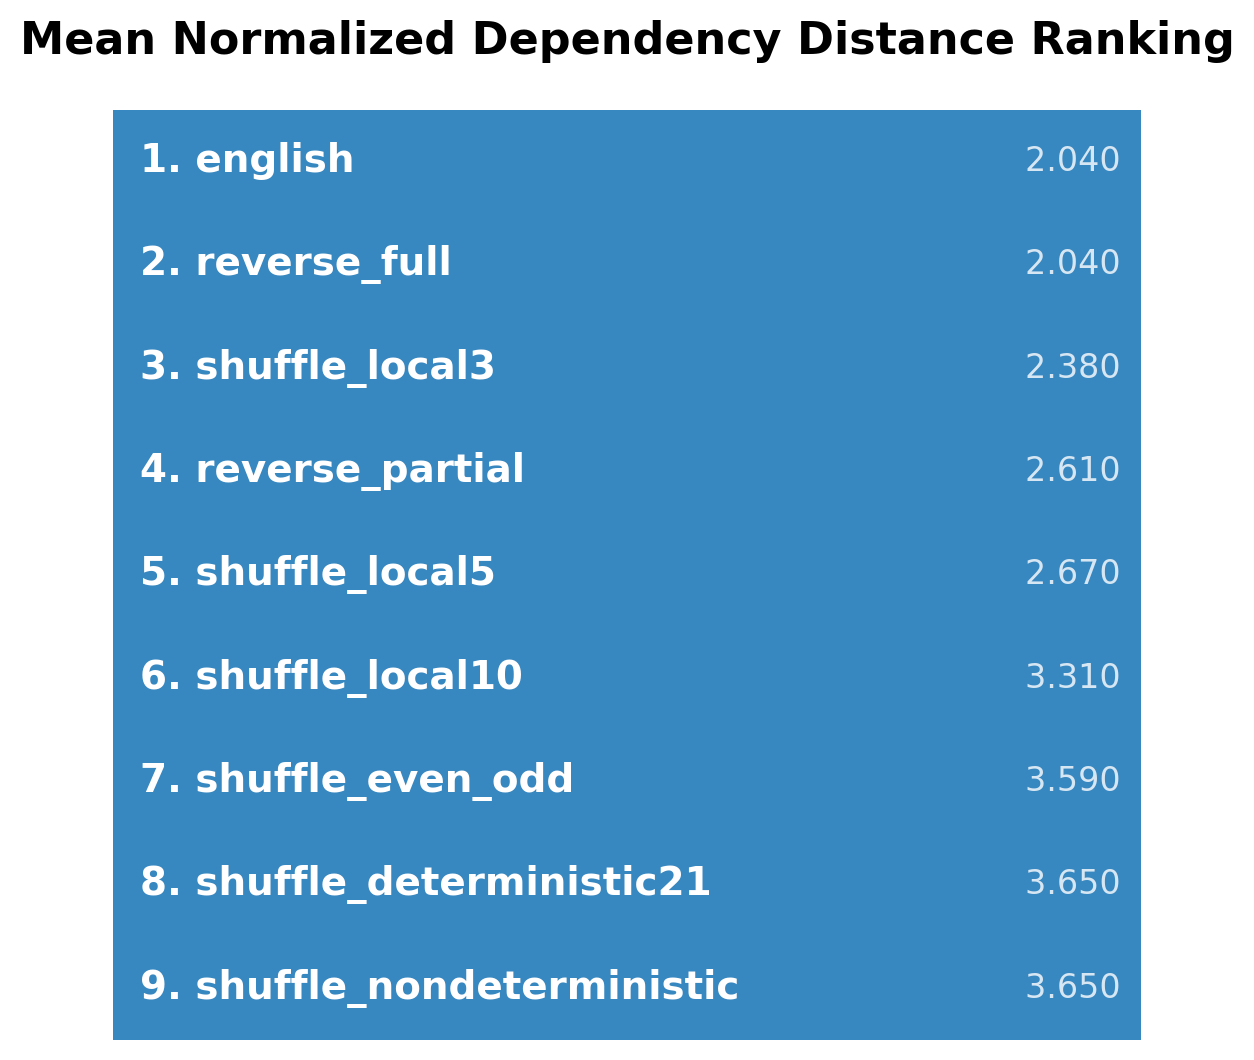
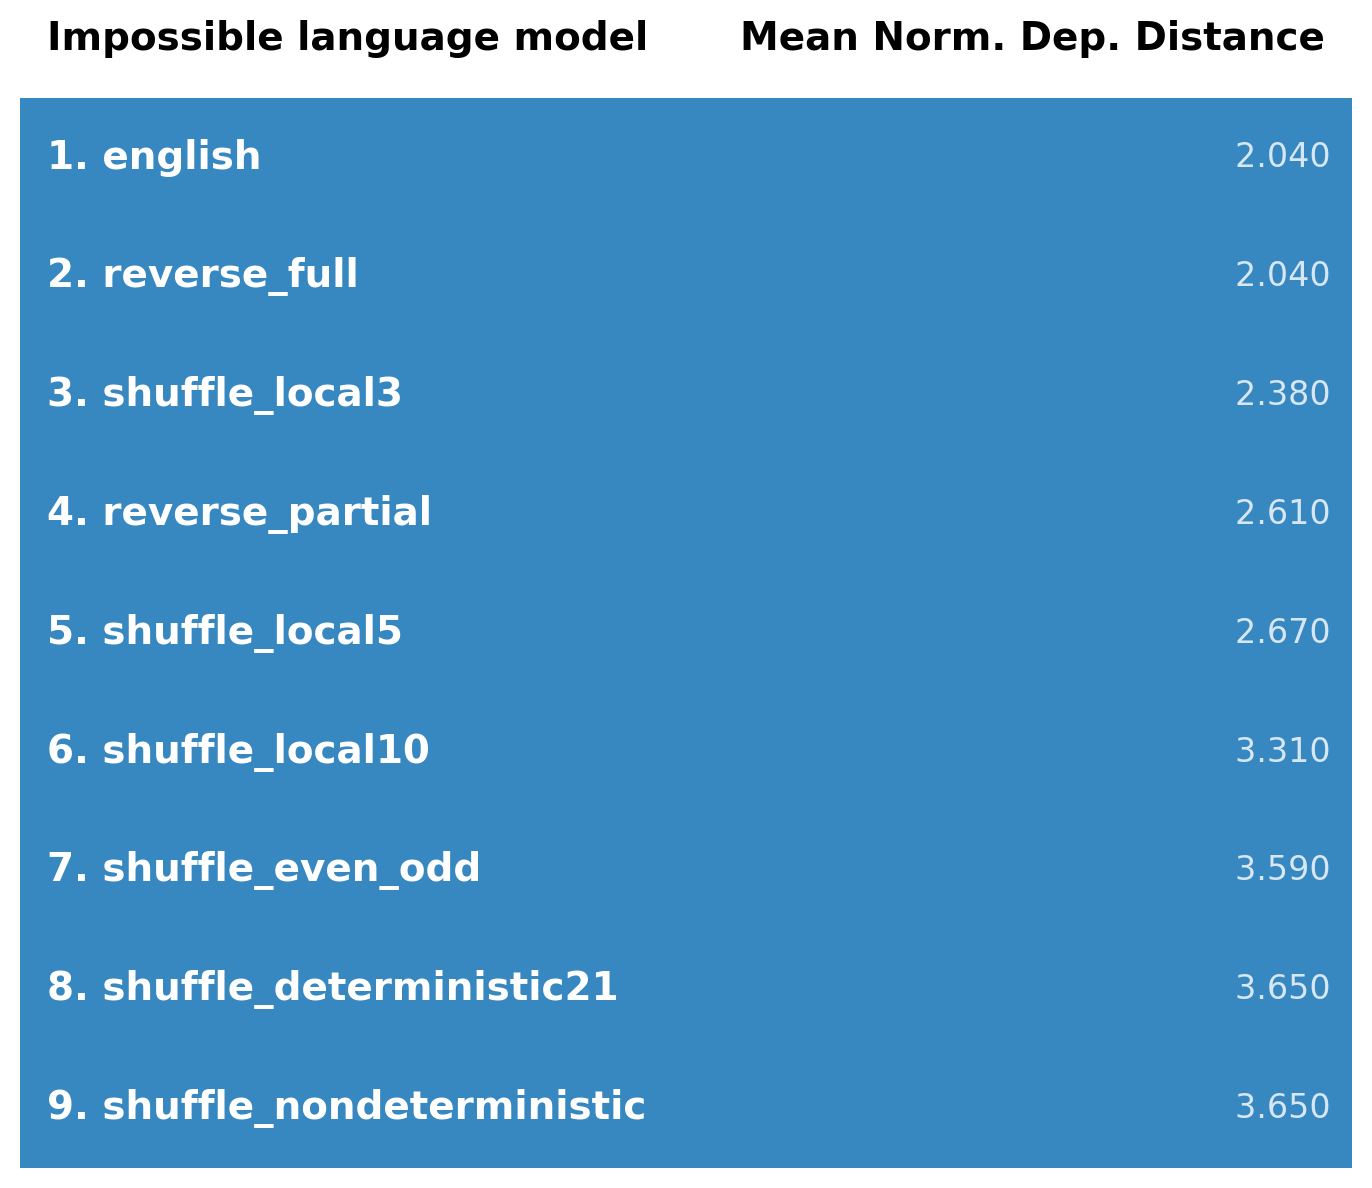
Update ranking and dependency stat images

Changed region(s): [[0.0, 0.0, 0.9952, 0.9962]]

diff --git a/analysis/performance_statistics.py b/analysis/performance_statistics.py
@@ -89,6 +89,8 @@ def plot_ordering(
     output_path: str = "analysis/output/ordering.png",
     title: str = "Model Performance Ranking",
     reverse: bool = True,
+    col1_title: str = "Item",
+    col2_title: str = "Value",
 ):
     """
     Generates a PNG image showing an ordered list of labels and their values.
@@ -113,11 +115,19 @@ def plot_ordering(
     if sorted_labels:
         max_len = max(len(label) for label in sorted_labels)
         # Base width of 4 inches + 0.12 inches per character for the label
-        fig_width = 4 + max_len * 0.06
+        fig_width = 4 + max_len * 0.04
     else:
         fig_width = 5 # Default width if there are no labels
 
-    fig, ax = plt.subplots(figsize=(fig_width, 0.6 * len(sorted_labels)))
+    # if column titles combined are bigger than fig_width, increase fig_width
+    if len(col1_title) + len(col2_title) > 30:
+        fig_width = fig_width + 2
+
+    fig, ax = plt.subplots(figsize=(fig_width, 0.6 * (len(sorted_labels) + 1)))
+
+    # Add column titles
+    ax.text(-0.5, -1, f"  {col1_title}", va='center', ha='left', color='black', fontsize=14, fontweight='bold')
+    ax.text(0.5, -1, f"{col2_title}  ", va='center', ha='right', color='black', fontsize=14, fontweight='bold')
     
     background = [[1] for _ in sorted_labels]
     ax.imshow(background, cmap="Blues", aspect="auto", vmin=0, vmax=1.5, extent=(-0.5, 0.5, len(sorted_labels)-0.5, -0.5))
@@ -136,7 +146,7 @@ def plot_ordering(
     ax.spines[:].set_visible(False)
     ax.set_xticks([])
     ax.set_yticks([])
-    ax.set_title(title, fontsize=16, fontweight='bold', pad=20)
+    # ax.set_title(title, fontsize=16, fontweight='bold', pad=20)
     
     plt.tight_layout()
     
@@ -187,7 +197,8 @@ def plot_model_ordering_from_csv(
     values = performance.values.tolist()
     
     # Call the plotting function to create and save the image
-    plot_ordering(labels=labels, values=values, output_path=output_path)
+    plot_ordering(labels=labels, values=values, output_path=output_path, col1_title="Model", col2_title="Accuracy")
+
 
 def plot_phenomenon_group_counts(
     csv_path: str = "experiments/output/v2/results.csv",
@@ -516,7 +527,7 @@ def plot_parallel_rankings(
         ax.text(i, -0.5, label, ha='center', va='bottom', fontsize=14, fontweight='bold')
 
     # 5. Final plot styling for a clean, professional look
-    ax.set_title(title, fontsize=18, fontweight='bold', pad=30)
+    # ax.set_title(title, fontsize=18, fontweight='bold', pad=30)
     ax.invert_yaxis()  # Puts Rank 1 at the top
     ax.set_ylim(num_items - 0.5, -1)
     ax.set_xlim(-0.5, num_rankings - 0.5)
@@ -564,7 +575,7 @@ def main():
     
     plot_model_ordering_from_csv(
         phenomena=local_ordering_phenomena,
-        skip_models=["reverse_partial", "shuffle_nondeterministic"],
+        # skip_models=["reverse_partial", "shuffle_nondeterministic"],
         output_path="analysis/output/model_ordering_local.png"
     )
 
@@ -577,6 +588,8 @@ def main():
         values=custom_values,
         output_path="analysis/output/m_local_ranking.png",
         title="m-local Ranking",
+        col1_title="Impossible language",
+        col2_title="m-local entropy",
         reverse=False
     )
 
@@ -606,6 +619,8 @@ def main():
         values=normalized_dependency_distance_values,
         output_path="analysis/output/mean_normalised_dep_distance_ranking.png",
         title="Mean Normalized Dependency Distance Ranking",
+        col1_title="Impossible language model",
+        col2_title="Mean Norm. Dep. Distance",
         reverse=False
     )
 
@@ -615,6 +630,8 @@ def main():
         values=proportion_projective,
         output_path="analysis/output/projectivity_ranking.png",
         title="Projectivity Ranking",
+        col1_title="Impossible language model",
+        col2_title="Proportion Projective",
     )
 
     csv_file = "experiments/output/v2/results.csv"
@@ -644,7 +661,7 @@ def main():
     # 3. Plot the comparison
     plot_parallel_rankings(
         rankings={
-            "Accuracy (Local)": accuracy_ranking_local,
+            "Model Accuracy (Local tasks)": accuracy_ranking_local,
             "m-local Score": mlocal_ranking,
         },
         output_path="analysis/output/local_ranking_consistency.png",
@@ -672,7 +689,7 @@ def main():
     # 4. Plot the comparison
     plot_parallel_rankings(
         rankings={
-            "Accuracy (Structural)": accuracy_ranking_structural,
+            "Model Accuracy (Structural tasks)": accuracy_ranking_structural,
             "Projectivity": projectivity_ranking,
             "Norm. Dep. Distance": dep_dist_ranking,
         },

diff --git a/analysis/dependency/dependency_parse_stats.py b/analysis/dependency/dependency_parse_stats.py
@@ -138,23 +138,23 @@ def generate_stats_table_image(filepath):
     table_df = stats_df[[
         'Perturbation Type',
         'avg_norm_dep_distance',
-        'avg_total_dep_distance',
+        # 'avg_total_dep_distance',
         'avg_crossing_deps',
         'proportion_projective',
-        'num_sentences'
+        # 'num_sentences'
     ]].copy()
 
     table_df.columns = [
         'Perturbation Type',
         'Avg Norm Dep Distance',
-        'Avg Total Dep Distance',
+        # 'Avg Total Dep Distance',
         'Avg Crossing Deps',
         'Proportion Projective',
-        'Num Sentences'
+        # 'Num Sentences'
     ]
 
     # Round the float values for better display
-    for col in ['Avg Norm Dep Distance', 'Avg Total Dep Distance', 'Avg Crossing Deps']:
+    for col in ['Avg Norm Dep Distance', 'Avg Crossing Deps']:
         table_df[col] = table_df[col].round(2)
     table_df['Proportion Projective'] = (table_df['Proportion Projective'] * 100).round(2).astype(str) + '%'
 
@@ -181,8 +181,8 @@ def generate_stats_table_image(filepath):
     print(f"\nSaved stats table to: {output_path}")
 
 def main():
-    apply_perturbations()
-    aggregate_stats('analysis/output/dep_stats.csv')
+    # apply_perturbations()
+    # aggregate_stats('analysis/output/dep_stats.csv')
     generate_stats_table_image('analysis/output/dep_stats.csv')
    
 if __name__ == "__main__":
